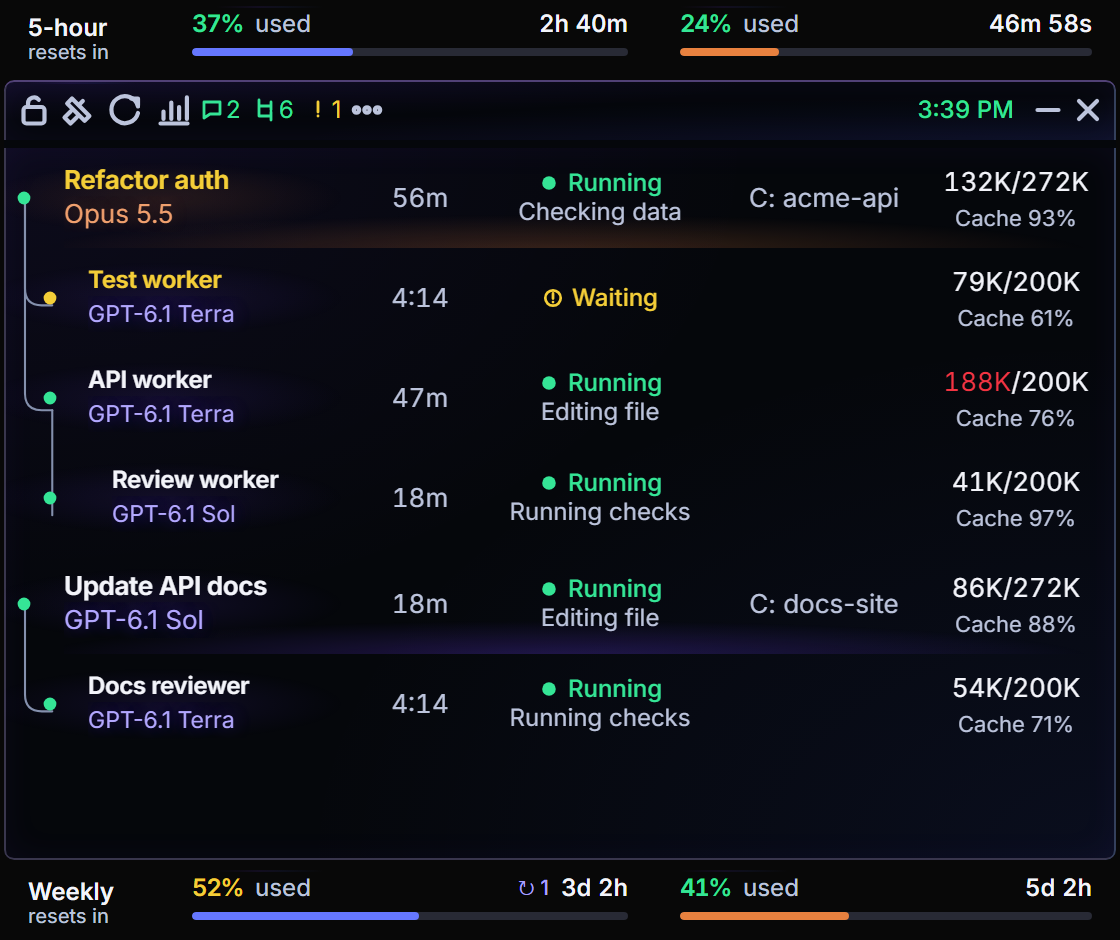
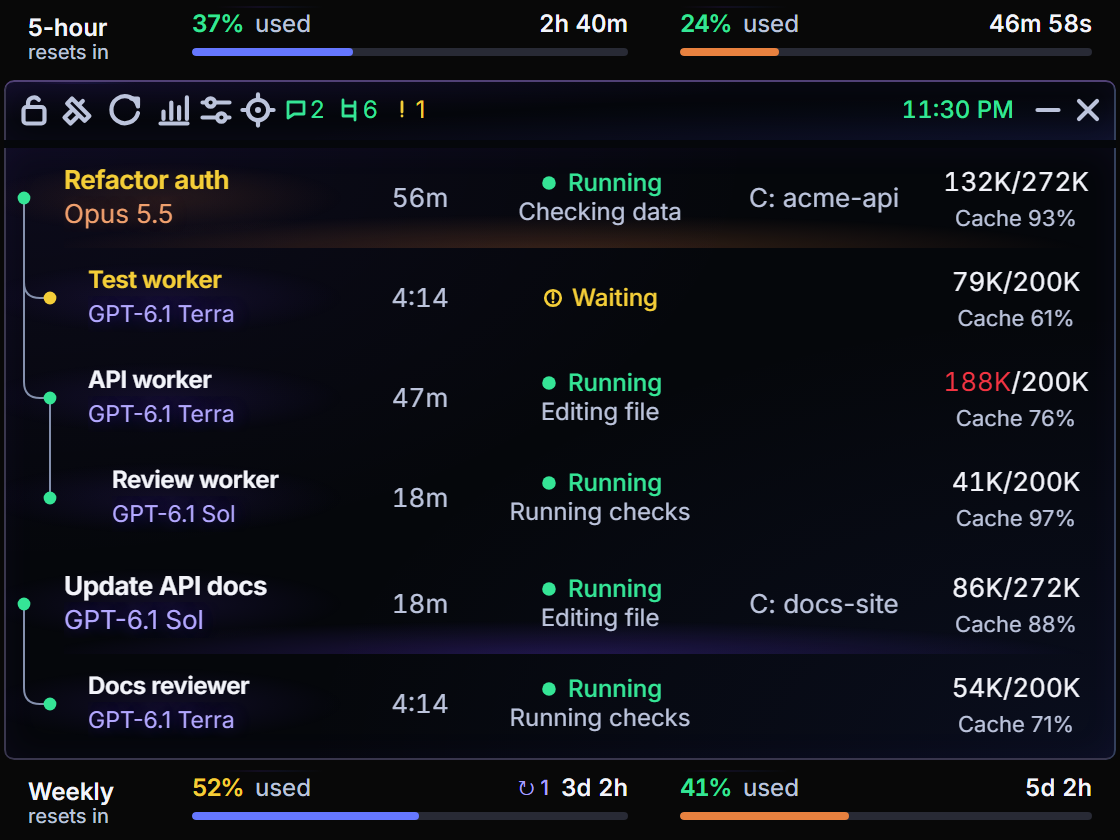
Put Settings and Recenter back in the dock and refresh the README widget screenshot (#28)

diff --git a/token_tracker/static/app.js b/token_tracker/static/app.js
@@ -70,7 +70,12 @@ function updateWidgetLockButton() {
   button.disabled=widgetLock.pending||!widgetLock.known;
   button.setAttribute?.('aria-pressed',String(widgetLock.locked));button.setAttribute?.('aria-label',label);button.title=title;
   if(button.innerHTML!==lockIcon(widgetLock.locked))button.innerHTML=lockIcon(widgetLock.locked);
-  updateMonitorButton();
+  updateMonitorButton();updateRecenterButton();
+}
+function updateRecenterButton() {
+  const button=$('#window-recenter');if(!button)return;
+  button.disabled=!widgetLock.known||widgetLock.pending||widgetLock.locked;
+  button.title=widgetLock.locked?'Unlock the widget to move it':'Recenter widget';
 }
 function updateKeepOpenButton() {
   const button=$('#widget-keep-open');if(!button)return;
@@ -308,7 +313,6 @@ function attr(el,name,value){if(el&&el.getAttribute?.(name)!==value)el.setAttrib
 function cls(el,name,on){on=Boolean(on);if(el?.classList&&el.classList.contains?.(name)!==on)el.classList.toggle(name,on);}
 function setNotch(expanded, treeSynced=false) {
   const mode=compactModeForState();
-  if(notch.mode&&notch.mode!==mode)closeToolbarMenu();
   if(mode==='dashboard')document.documentElement?.style?.removeProperty?.('--runway-inspect-layout-width');
   if(mode==='inspect'){
     if(notch.mode!=='inspect'){inspectLayoutGeneration++;inspectWidthCorrectionUsed=false;clearTimeout(inspectLayoutTimer);inspectLayoutTimer=null;}
@@ -409,7 +413,6 @@ function setupNotch() {
   };
   const scheduleInspect=()=>{if(notch.inspectTimer!=null||!state.runwaySnapshotPainted)return;notch.inspectTimer=setTimeout(()=>{notch.inspectTimer=null;if(notch.hover&&!notch.hoverSuppressed&&state.runwaySnapshotPainted){notch.inspecting=true;setNotch(true);}},60);};
   const leave=()=>{clearTimeout(notch.exitTimer);notch.exitTimer=setTimeout(()=>{
-    if(!notch.hover&&!compactHasFocus())closeToolbarMenu();
     const held=keepOpenState.value||state.searchOpen||Boolean(state.popover);
     if(!notch.hover&&!compactHasFocus()&&!notch.keyboardInspecting&&!held){const wasInspecting=notch.inspecting||notch.manual;notch.inspecting=false;notch.manual=false;if(wasInspecting){clearTimeout(notch.autoTimer);notch.autoTimer=null;notch.autoExpanded=false;}}
     setNotch(false);
@@ -434,6 +437,7 @@ function setupNotch() {
   window.addEventListener('pywebviewready',()=>{notch.sent=null;compactBridge.appliedSignature=null;compactBridge.pending=null;void syncKeepOpen();void syncWidgetLock().then(()=>syncMonitors());});
   if(window.pywebview?.api?.get_widget_lock)void syncWidgetLock().then(()=>syncMonitors());
   $('#monitor-toggle')?.addEventListener('click',toggleMonitor);
+  $('#window-recenter')?.addEventListener('click',()=>{void recenterWidget();});
   updateWidgetLockButton();updateKeepOpenButton();void syncKeepOpen();
   syncMonitors();
   setInterval(syncMonitors,10000);
@@ -1371,17 +1375,7 @@ function renderGreeterStatus(providers) {
   node.textContent=label;node.className="greeter-status"+(w.needsLogin||error?" error":"");
   node.title=(error?String(error)+" · ":"")+(attempted?"Last greeting attempt at "+clock(attempted):"Codex quota recovery status");
 }
-function toolbarMenu(open) {
-  const menu=$("#toolbar-menu"),button=$("#toolbar-more");if(!menu||!button)return;
-  const next=open??menu.hidden;
-  menu.hidden=!next;button.setAttribute?.("aria-expanded",String(next));
-}
-const toggleToolbarMenu=()=>toolbarMenu();
-function closeToolbarMenu(){toolbarMenu(false);}
-document.addEventListener?.("pointerdown",event=>{const menu=$("#toolbar-menu");if(menu&&!menu.hidden&&!event.target?.closest?.(".toolbar-more"))closeToolbarMenu();});
 document.addEventListener?.("pointerdown",event=>{const view=$("#dashboard-view");if(dashboardState.open&&view&&!view.contains?.(event.target))closeDashboard();});
-window.addEventListener?.("blur",closeToolbarMenu);
-document.addEventListener?.("keydown",event=>{if(event.key==="Escape"){const menu=$("#toolbar-menu");if(menu&&!menu.hidden){closeToolbarMenu();$("#toolbar-more")?.focus?.({preventScroll:true});}}});
 /* ---------- chat rows (layer 1) ---------- */
 function runwayContextPair(chat) {
   const tokens=safeNumber(chat.contextTokens),windowSize=safeNumber(chat.contextWindow),observed=stamp(chat.contextObservedAt),compacted=stamp(chat.compactionStartedAt);
@@ -2516,8 +2510,7 @@ function handleClick(event) {
   if(!button)return;
   const {action,key}=button.dataset;
   if(action==='widget-lock'){void toggleWidgetLock();return;}
-  if(action==='toolbar-more'){toggleToolbarMenu();return;}
-  if(action==='open-settings'){closeToolbarMenu();openDashboard('settings');return;}
+  if(action==='open-settings'){openDashboard('settings');return;}
   if(action==='jump-waiting'){jumpToWaiting();return;}
   if(action==='source'){setSource(button.dataset.source);return;}
   if(action==='dashboard'){openDashboard();return;}
@@ -2562,7 +2555,7 @@ function handleKey(event) {
 }
 function queueSelectionRefresh(){if(window.__TOKEN_TRACKER_TEST__)return;clearTimeout(state.selectionTimer);state.selectionTimer=setTimeout(()=>refresh(),250);}
 window.tokenTrackerRefresh=refresh;
-window.__tokenTrackerTest={state,render,buildForest,visibleRoots,renderRunwayCounts,jumpToWaiting,tick,renderChats,renderResets,renderTotals,handleClick,handleKey,applyLive,pollLive,runwayRank,dataIsStale,clockNow,renderUpdatedMarker,toggleToolbarMenu,refresh,scheduleBootstrapRetry,loadWatcher,applyWatcherLimits,applyQuotaSamples,reconcileSnapshotQuotas,acceptSnapshotCache,validateSnapshotCache,isoObservationTime,watcherLoader,statsUrl,runway:true,compact:true,keepOpenState,handleVisibilityChange,trackerSnippet,notch,widgetLock,setNotch,syncNotch,notchHeight,syncMonitors,toggleMonitor,applyMonitorResult,monitorSignature,predictedInspectLayoutWidth,writeInspectLayoutWidth,applyInspectLayoutWidth,refreshInspectCssScale,noteInspectViewportResize,cancelInspectLayoutReconcile,getMonitorState:()=>monitorState,getInspectWidthState:()=>({width:inspectLayoutWidth,signature:inspectMonitorSignature,cssScale:inspectCssScaleSignature,cacheKey:inspectWidthCacheKey,generation:inspectLayoutGeneration,correctionUsed:inspectWidthCorrectionUsed,correctedWidths:new Map(correctedInspectWidths),expectedSignature:inspectExpectedSignature,requestGeneration:inspectRequestGeneration,resizeGeneration:inspectResizeGeneration,requestResizeGeneration:inspectRequestResizeGeneration,bridgeBusy:compactBridge.busy,appliedSignature:compactBridge.appliedSignature,pendingSignature:compactBridge.pending?.signature||null}),syncWidgetLock,applyWidgetLock,setWidgetLock,toggleWidgetLock,recenterWidget,syncKeepOpen,applyKeepOpen,setKeepOpen,toggleKeepOpen,runwayCurrentEvidenceFresh,RUNWAY_EVIDENCE_MAX_AGE_MS,runwayStateElapsed,runwayCounts,runwayTitle,runwayAgentHasNewMessage,runwayMessageAge,runwayQuestionPopover,runwayVisibleActive,runwayRecentlyUnavailable,runwayPatchContent,patchKeyed,isAsking,runwayWaiting,runwayExecutionView,runwayEffectiveStatus,runwayRunning,runInfo,setupWindowDrag,
+window.__tokenTrackerTest={state,render,buildForest,visibleRoots,renderRunwayCounts,jumpToWaiting,tick,renderChats,renderResets,renderTotals,handleClick,handleKey,applyLive,pollLive,runwayRank,dataIsStale,clockNow,renderUpdatedMarker,refresh,scheduleBootstrapRetry,loadWatcher,applyWatcherLimits,applyQuotaSamples,reconcileSnapshotQuotas,acceptSnapshotCache,validateSnapshotCache,isoObservationTime,watcherLoader,statsUrl,runway:true,compact:true,keepOpenState,handleVisibilityChange,trackerSnippet,notch,widgetLock,setNotch,syncNotch,notchHeight,syncMonitors,toggleMonitor,applyMonitorResult,monitorSignature,predictedInspectLayoutWidth,writeInspectLayoutWidth,applyInspectLayoutWidth,refreshInspectCssScale,noteInspectViewportResize,cancelInspectLayoutReconcile,getMonitorState:()=>monitorState,getInspectWidthState:()=>({width:inspectLayoutWidth,signature:inspectMonitorSignature,cssScale:inspectCssScaleSignature,cacheKey:inspectWidthCacheKey,generation:inspectLayoutGeneration,correctionUsed:inspectWidthCorrectionUsed,correctedWidths:new Map(correctedInspectWidths),expectedSignature:inspectExpectedSignature,requestGeneration:inspectRequestGeneration,resizeGeneration:inspectResizeGeneration,requestResizeGeneration:inspectRequestResizeGeneration,bridgeBusy:compactBridge.busy,appliedSignature:compactBridge.appliedSignature,pendingSignature:compactBridge.pending?.signature||null}),syncWidgetLock,applyWidgetLock,setWidgetLock,toggleWidgetLock,recenterWidget,syncKeepOpen,applyKeepOpen,setKeepOpen,toggleKeepOpen,runwayCurrentEvidenceFresh,RUNWAY_EVIDENCE_MAX_AGE_MS,runwayStateElapsed,runwayCounts,runwayTitle,runwayAgentHasNewMessage,runwayMessageAge,runwayQuestionPopover,runwayVisibleActive,runwayRecentlyUnavailable,runwayPatchContent,patchKeyed,isAsking,runwayWaiting,runwayExecutionView,runwayEffectiveStatus,runwayRunning,runInfo,setupWindowDrag,
   renderLoading,
   nextWindowWithChats,parseQuery,cacheWarmth,warmthView,resetAt,resetParts,resetView,countdown,runSpan,ageShort,dayWord,providersFor,limitProvidersFor,sourceNames,effectiveSource,treeParentKey,runwayModelLabel,syncCompactClock,
   setupNotch,questionDismissToken,watcherTone,rollup,ownState,rowHTML,trayEntries,traySummaryHTML,trayState,agentStats,totalStats,statStripHTML,watcherPopoverHTML,isVisibleAgent,chatBlockHTML,runwayTreePathGeometry,

diff --git a/token_tracker/static/runway.html b/token_tracker/static/runway.html
@@ -17,17 +17,12 @@
       <button id="widget-keep-open" class="icon-btn compact-keep-open" data-action="keep-open" aria-pressed="false" aria-label="Keep widget open" title="Keep widget open"><svg class="ic" viewBox="0 0 12 12" aria-hidden="true"><path d="M4 2.2 9.8 8l-1.6 1.6L2.4 3.8zM3.6 6.4 1.5 8.5l2 2 2.1-2.1M6.2 4.4l1.4-1.4"/></svg></button>
       <button id="sync-age" class="sync-age" data-action="refresh" aria-label="Refresh usage" title="Refresh usage">Now</button>
       <button id="dashboard-open" class="icon-btn" data-action="dashboard" aria-label="Open Insights dashboard" title="Insights"><svg class="ic" viewBox="0 0 12 12" aria-hidden="true"><path d="M1.5 10.5h9M2.5 9V6.5M5.1 9V3.5M7.7 9V5M10.3 9V1.8"/></svg></button>
+      <button id="dashboard-settings-open" class="icon-btn" data-action="open-settings" aria-label="Open Settings" title="Settings"><svg class="ic" viewBox="0 0 12 12" aria-hidden="true"><path d="M1.5 3.5h9M1.5 8.5h9"/><circle cx="4.2" cy="3.5" r="1.4" fill="var(--card, #05070b)"/><circle cx="7.8" cy="8.5" r="1.4" fill="var(--card, #05070b)"/></svg></button>
+      <button id="window-recenter" class="icon-btn" aria-label="Recenter widget" title="Recenter widget"><svg class="ic" viewBox="0 0 12 12" aria-hidden="true"><circle cx="6" cy="6" r="3.4"/><circle cx="6" cy="6" r="1" fill="currentColor" stroke="none"/><path d="M6 .8v1.7M6 9.5v1.7M.8 6h1.7M9.5 6h1.7"/></svg></button>
       <span class="tb-fill pywebview-drag-region"></span>
       <span id="notch-counts" class="notch-counts" aria-label="Live chat counts"></span>
       <button id="search-toggle" class="icon-btn" data-action="search" aria-label="Search chats" title="Search  /"><svg class="ic" viewBox="0 0 12 12" aria-hidden="true"><circle cx="5.25" cy="5.25" r="3.5"/><path d="m7.9 7.9 2.6 2.6"/></svg></button>
       <span id="updated-marker" class="updated-marker" role="status" hidden></span>
-      <div class="toolbar-more">
-        <button id="toolbar-more" class="icon-btn" data-action="toolbar-more" aria-haspopup="true" aria-expanded="false" aria-controls="toolbar-menu" aria-label="More actions" title="More"><svg class="ic" viewBox="0 0 12 12" aria-hidden="true"><circle cx="2.5" cy="6" r=".9"/><circle cx="6" cy="6" r=".9"/><circle cx="9.5" cy="6" r=".9"/></svg></button>
-        <div id="toolbar-menu" class="toolbar-menu" role="group" aria-label="More actions" hidden>
-          <button id="toolbar-settings" class="toolbar-menu-item" data-action="open-settings" aria-label="Open Settings" title="Settings">Settings</button>
-          <button id="monitor-toggle" class="sync-age" aria-label="Move to next monitor" title="Move to next monitor">Monitor</button>
-        </div>
-      </div>
       <div class="window-controls" aria-label="Window controls">
         <button id="window-minimize" aria-label="Minimize"><svg class="ic" viewBox="0 0 12 12" aria-hidden="true"><path d="M2.5 6h7"/></svg></button>
         <button id="window-fit" aria-label="Fit widget to screen" title="Fit widget to screen"><svg class="ic" viewBox="0 0 12 12" aria-hidden="true"><path d="M2 5V2h3M7 10h3V7M2 2l3 3M10 10 7 7"/></svg></button>

diff --git a/token_tracker/static/runway_refined.css b/token_tracker/static/runway_refined.css
@@ -556,18 +556,9 @@ body.runway-refined.runway-compact:not(.phone) .rr-cd:empty::before{content:"\20
 body.runway-refined.runway-compact:not(.phone) .rr .meter{grid-column:1/-1;grid-row:2;height:4px;border-radius:4px;}
 body.runway-refined.runway-compact:not(.phone) .rr .greet{left:-13px;top:1px;}
 
-/* ---- Toolbar: lock, pin and Refresh left, window actions right; Settings and Move-monitor in the overflow menu ---- */
-body.runway-refined.runway-compact:not(.phone) .compact-toolbar .toolbar-more{position:relative;flex:none;display:flex;align-items:center;}
+/* ---- Toolbar: lock, pin and Refresh left, window actions right; Insights, Settings and Recenter in the dock ---- */
 body.runway-refined.runway-compact:not(.phone) .compact-toolbar .updated-marker{flex:none;margin:0 6px;color:#d8b980;font:500 11px/16px var(--sans);white-space:nowrap;}
 body.runway-refined.runway-compact:not(.phone) .compact-toolbar .updated-marker[hidden]{display:none;}
-body.runway-refined.runway-compact:not(.phone) .compact-toolbar .toolbar-menu{position:absolute;left:0;top:calc(100% + 4px);z-index:30;min-width:190px;display:flex;flex-direction:column;gap:1px;padding:4px;border-radius:8px;background:#0b0d14;box-shadow:0 10px 26px #000c;}
-body.runway-refined.runway-compact:not(.phone) .compact-toolbar .toolbar-menu[hidden]{display:none;}
-body.runway-refined.runway-compact:not(.phone) .compact-toolbar .toolbar-menu #toolbar-settings,body.runway-refined.runway-compact:not(.phone) .compact-toolbar .toolbar-menu #monitor-toggle{position:relative;border:0;background:transparent;box-shadow:none;cursor:pointer;width:100%;min-width:0;max-width:none;height:28px;display:flex;align-items:center;justify-content:flex-start;gap:8px;padding:0 8px;border-radius:6px;color:var(--ink);font:500 12px/1 var(--sans);}
-body.runway-refined.runway-compact:not(.phone) .compact-toolbar .toolbar-menu #monitor-toggle{padding-left:30px;font-size:12px;}
-body.runway-refined.runway-compact:not(.phone) .compact-toolbar .toolbar-menu #toolbar-settings{padding-left:30px;}
-body.runway-refined.runway-compact:not(.phone) .compact-toolbar .toolbar-menu #toolbar-settings::before{content:"";position:absolute;left:10px;top:9px;width:10px;height:10px;border:1.4px solid currentColor;border-radius:50%;box-shadow:0 0 0 2px #0b0d14,0 0 0 3px currentColor;opacity:.8;}
-body.runway-refined.runway-compact:not(.phone) .compact-toolbar .toolbar-menu #monitor-toggle::before{left:9px;top:10px;}
-body.runway-refined.runway-compact:not(.phone) .compact-toolbar .toolbar-menu button:hover{background:#ffffff0b;}
 
 /* Narrow strip (the collapsed 328px widget): same grid, shorter words. */
 @media (max-width:460px){

diff --git a/scripts/screenshots/fixture.js b/scripts/screenshots/fixture.js
@@ -43,7 +43,6 @@
       tracker.notch.manual = true;
       tracker.notch.inspecting = true;
       tracker.setNotch(true);
-      if (new URLSearchParams(location.search).get("menu") === "1") tracker.toggleToolbarMenu();
       // A headless browser cannot perform the native window resize requested by
       // set_notch. Match the capture surface to its toolbar instead of applying
       // viewport corrections intended for the real WebView host.
@@ -53,7 +52,7 @@
     } else if (mode === "settings") {
       tracker.openDashboard();
       window.TokenTrackerDashboard.selectTab("settings");
-    } else if (mode.startsWith("insights")) {
+    } else if (mode?.startsWith("insights")) {
       // insights-<range>[-lines][-hide][-hover]: chart direction variants for review captures.
       const range = mode.split("-")[1];
       localStorage.setItem("branchglanceInsightsRange", ["24h", "7d", "30d", "all"].includes(range) ? range : "30d");

diff --git a/scripts/screenshots/render.py b/scripts/screenshots/render.py
@@ -90,6 +90,7 @@ def fixtures(models=2, reset_continue=False, tree_space=False):
                           "fiveHour": {"percent": five, "resetAt": reset(minutes)},
                           "weekly": {"percent": weekly, "resetAt": reset(weekly_minutes)},
                           "limitsUpdatedAt": iso(0)})
+    providers[1]["identityVerified"] = True
     providers[0]["bankedResets"] = {"available": 1, "items": [{"title": "Full reset (Weekly + 5 hr)", "expiresAt": reset(30 * 1440)}]}
     if tree_space:
         providers[0]["chats"] = extra + [other, docs_child]
@@ -308,7 +309,6 @@ def main():
     parser = argparse.ArgumentParser()
     parser.add_argument("--insights-only", action="store_true")
     parser.add_argument("--settings-only", action="store_true")
-    parser.add_argument("--menu-open", action="store_true", help="capture the tree with the overflow menu open")
     parser.add_argument("--routing", choices=("codex", "claude", "both"), action="append",
                         help="capture the routing alert state (repeatable): the widget tree after a quota crossing")
     parser.add_argument("--insights-ranges", default="24h,30d",
@@ -340,9 +340,7 @@ def main():
     args.output_dir.mkdir(parents=True, exist_ok=True)
     try:
         with tempfile.TemporaryDirectory(prefix="branchglance-screenshots-") as profile:
-            if args.menu_open:
-                captures = [("tree&menu=1", "tree-menu-open.png", 560, 420)]
-            elif args.routing:
+            if args.routing:
                 captures = [(f"tree&routing={kind}", f"routing-{kind}.png", 560, 420) for kind in args.routing]
             elif args.insights_only:
                 captures = [(f"insights-{item}", f"insights-{item}.png", 720, 608) for item in ranges]
